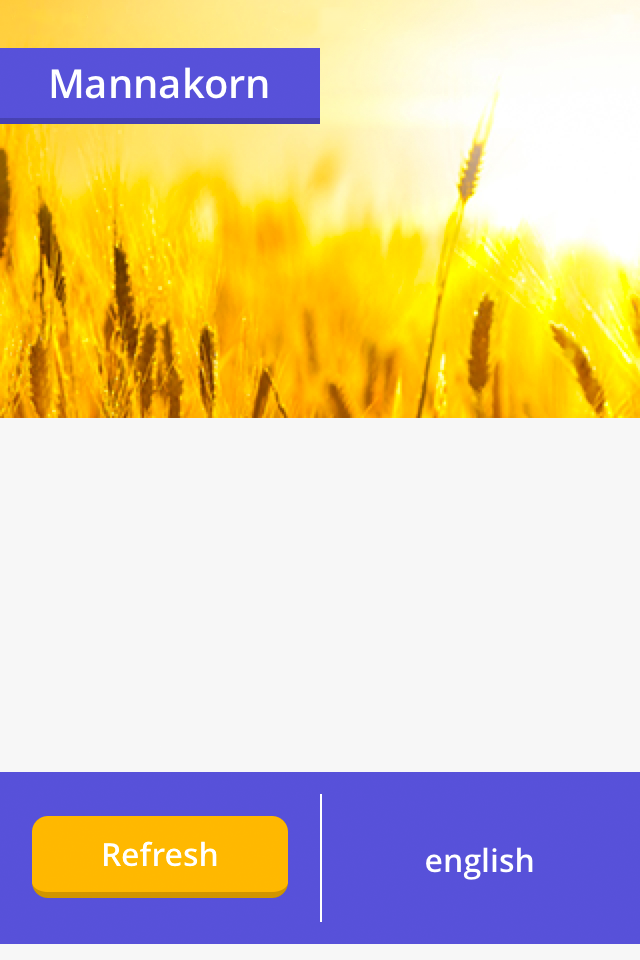
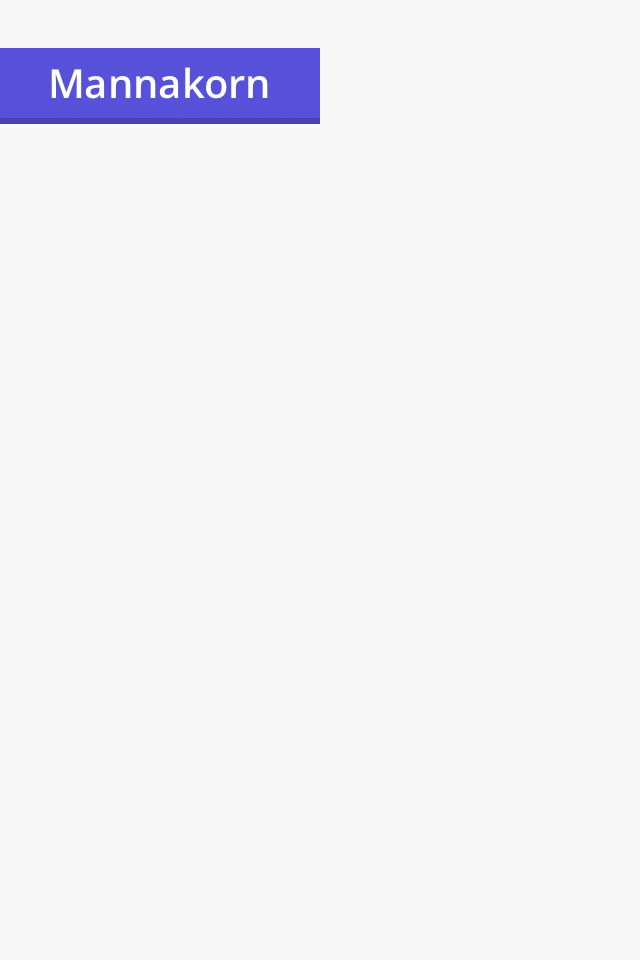
use a different splash screen

diff --git a/partials/mannakorn-verse.html b/partials/mannakorn-verse.html
@@ -1,17 +1,14 @@
 <div class="page">
-	<header>
-		<h2 class="app-title">Mannakorn</h2>
-	</header>
-	
+    
 	<div class="body">
 	<div class="inner-body">
 		<div class="mannakorn-holder">
-			<div id="mannakorn"><!-- &bdquo; -->
-				<img src="img/quotation-mark.png" class="quotation-mark before" /><!-- This has to be replaced with a graphic since it's not websafe -->
+			<div id="mannakorn">
+				<img src="img/quotation-mark.png" class="quotation-mark before" />
 				<div class="content" ng-repeat="verse in mannakorn.verses">
         			<span class="item"><span class="number">{{verse.number}}</span> {{verse.text}}&nbsp;&nbsp;&nbsp;&nbsp;&nbsp;&nbsp;&nbsp;&nbsp;</span>
     			</div>
-				<img src="img/quotation-mark.png" class="quotation-mark after" /><!-- &rdquo; -->
+				<img src="img/quotation-mark.png" class="quotation-mark after" />
         		<h4 class="verse">{{mannakorn.description}}</h4>
 			</div>
 		</div>

diff --git a/index.html b/index.html
@@ -29,7 +29,12 @@
         <title>Mannakorn</title>
     </head>
     <body>
-        <div class="view" ng-view></div>
+        
+            <header>
+                <h2 class="app-title">Mannakorn</h2>
+            </header>
+        
+            <div class="view" ng-view></div>
         
         <script type="text/javascript" src="phonegap.js"></script>
         <script type="text/javascript" src="js/index.js"></script>

diff --git a/css/style.css b/css/style.css
@@ -59,6 +59,7 @@ body {
 
 .page .inner-body {
 	position: absolute;
+	z-index: 20;
 	bottom: 0px;
 	width: 100%;
 	max-height: 100%;
@@ -78,6 +79,7 @@ body {
 	background: #5856d6;
 	width: 100%;
 	border-bottom: 8px solid #f7f7f7;
+	z-index: 30;
 }
 
 h1, h2, h3, h4, h5 {
@@ -122,6 +124,7 @@ button:active {
 	font-weight: normal;
 	padding: 4px 24px;
 	border-bottom: 3px solid #4846b0;
+	z-index: 10;
 }
 
 
